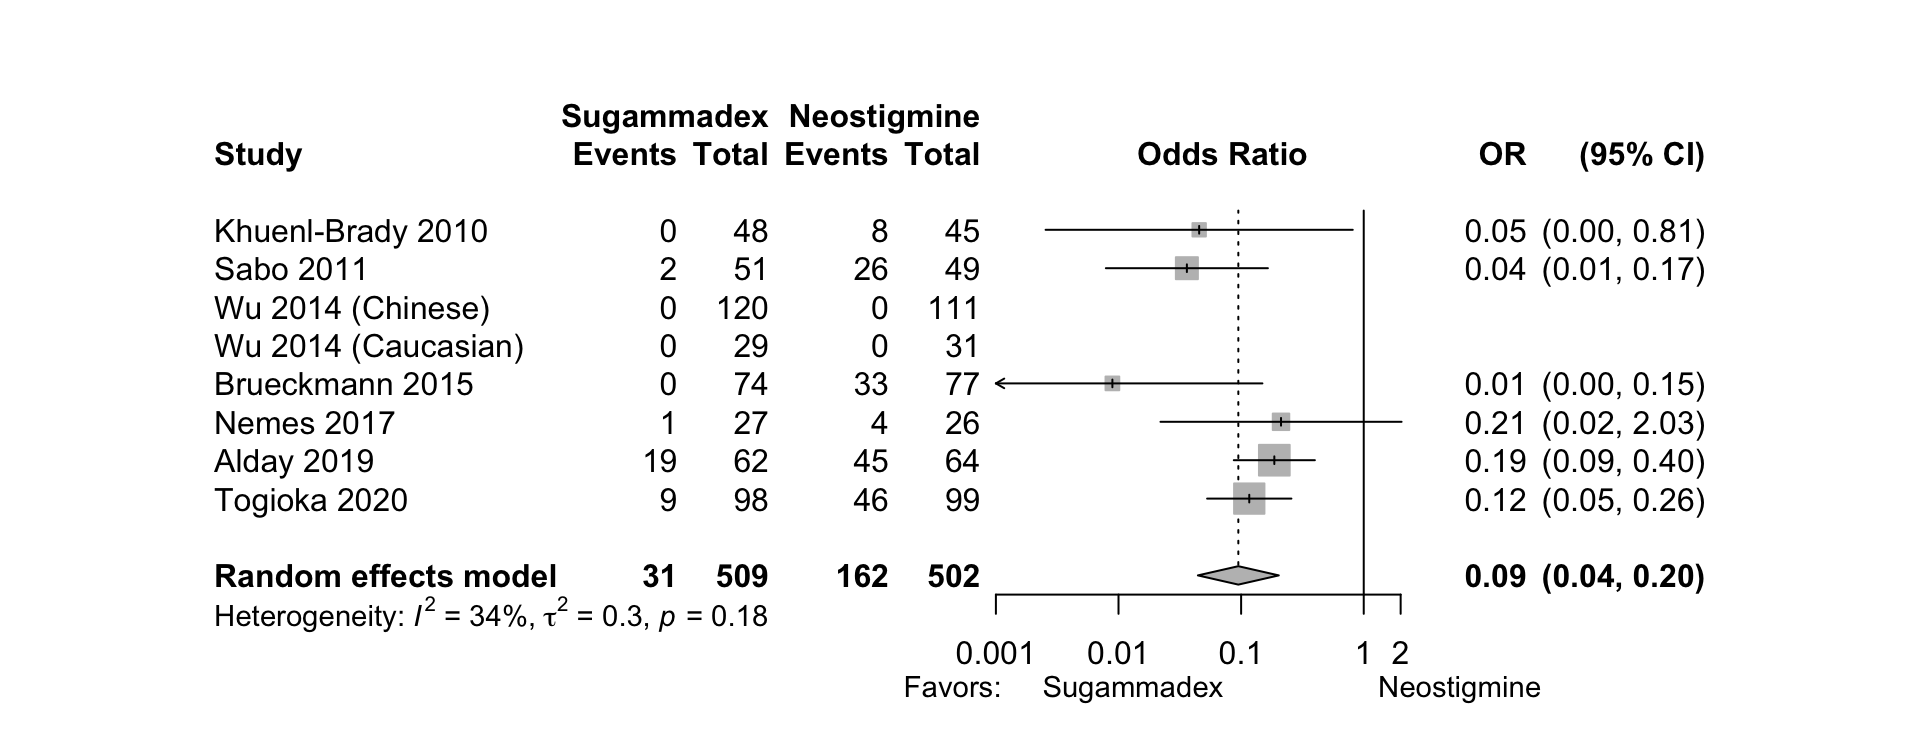
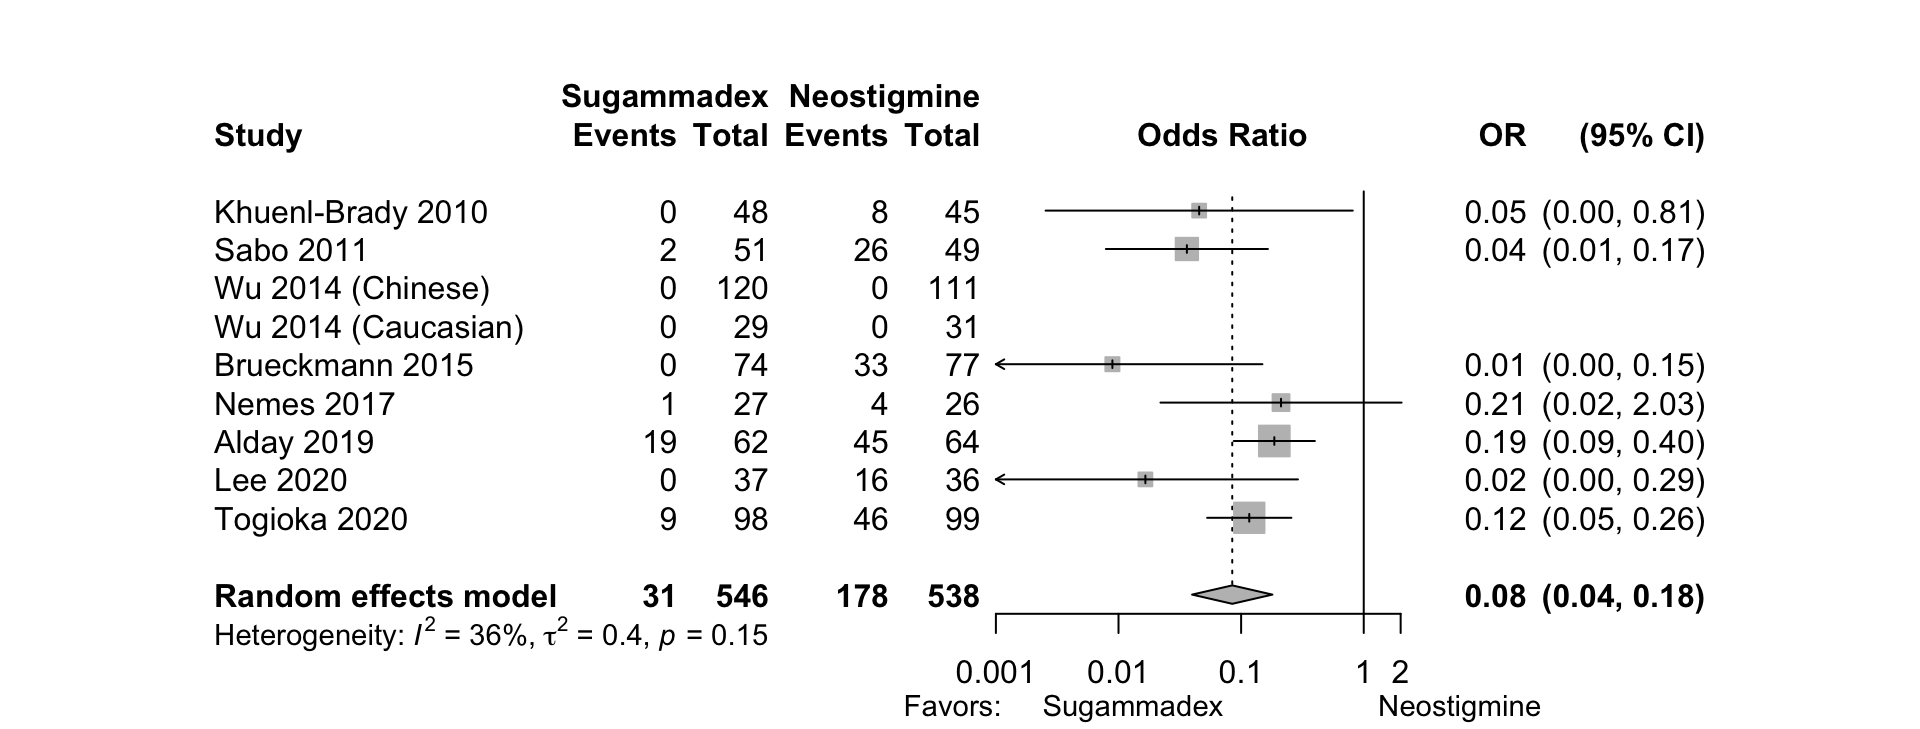
update reversal

diff --git a/docs/reversal.html b/docs/reversal.html
@@ -403,7 +403,7 @@ div.tocify {
 
 
 <h1 class="title toc-ignore">KQ4</h1>
-<h4 class="date">13 January, 2022 (09:15)</h4>
+<h4 class="date">13 January, 2022 (11:08)</h4>
 
 </div>
 
@@ -519,16 +519,16 @@ This reproducible <a href="https://rmarkdown.rstudio.com">R Markdown</a> analysi
 <div class="panel panel-default">
 <div class="panel-heading">
 <p class="panel-title">
-<a data-toggle="collapse" data-parent="#workflowr-checks" href="#strongRepositoryversionstrongahrefhttpsgithubcommdgrantNMBtree8a8b14e1a45537356708584e4ae0af00bb79b20etargetblank8a8b14ea"> <span class="glyphicon glyphicon-ok text-success" aria-hidden="true"></span> <strong>Repository version:</strong> <a href="https://github.com/mdgrant/NMB/tree/8a8b14e1a45537356708584e4ae0af00bb79b20e" target="_blank">8a8b14e</a> </a>
+<a data-toggle="collapse" data-parent="#workflowr-checks" href="#strongRepositoryversionstrongahrefhttpsgithubcommdgrantNMBtree3cc5d86b18cbd96ca0b3a3d39d277484a9dc21c6targetblank3cc5d86a"> <span class="glyphicon glyphicon-ok text-success" aria-hidden="true"></span> <strong>Repository version:</strong> <a href="https://github.com/mdgrant/NMB/tree/3cc5d86b18cbd96ca0b3a3d39d277484a9dc21c6" target="_blank">3cc5d86</a> </a>
 </p>
 </div>
[2 lines of base64/hex data omitted]
 <div class="panel-body">
 <p>
 Great! You are using Git for version control. Tracking code development and connecting the code version to the results is critical for reproducibility.
 </p>
 <p>
-The results in this page were generated with repository version <a href="https://github.com/mdgrant/NMB/tree/8a8b14e1a45537356708584e4ae0af00bb79b20e" target="_blank">8a8b14e</a>. See the <em>Past versions</em> tab to see a history of the changes made to the R Markdown and HTML files.
+The results in this page were generated with repository version <a href="https://github.com/mdgrant/NMB/tree/3cc5d86b18cbd96ca0b3a3d39d277484a9dc21c6" target="_blank">3cc5d86</a>. See the <em>Past versions</em> tab to see a history of the changes made to the R Markdown and HTML files.
 </p>
 <p>
 Note that you need to be careful to ensure that all relevant files for the analysis have been committed to Git prior to generating the results (you can use <code>wflow_publish</code> or <code>wflow_git_commit</code>). workflowr only checks the R Markdown file, but you know if there are other scripts or data files that it depends on. Below is the status of the Git repository when the results were generated:
@@ -601,6 +601,23 @@ Message
 </tr>
 </thead>
 <tbody>
+<tr>
+<td>
+html
+</td>
+<td>
+<a href="https://rawcdn.githack.com/mdgrant/NMB/0950c5838938503bdbd2608a2123c49fcc6cd89c/docs/reversal.html" target="_blank">0950c58</a>
+</td>
+<td>
+Mark Grant
+</td>
+<td>
+2022-01-13
+</td>
+<td>
+reversal updates
+</td>
+</tr>
 <tr>
 <td>
 html
@@ -4385,8 +4402,8 @@ Various
 <div id="outcomes" class="section level1">
 <h1><strong>Outcomes</strong></h1>
 <p><br/></p>
-<div id="residual-neuromusclar-block-tofrclinical" class="section level2">
-<h2><em>Residual Neuromusclar Block (TOFR/Clinical)</em></h2>
+<div id="residual-neuromuscular-block-tofrclinical" class="section level2">
+<h2><em>Residual Neuromuscular Block (TOFR/Clinical)</em></h2>
 <p><br/></p>
 <div id="adult" class="section level3">
 <h3><u>Adult</u></h3>
@@ -7636,7 +7653,7 @@ Mark Grant
 </table>
 </div>
 </div>
-<p><br/><br/></p>
+<p><br/></p>
 </div>
 <div id="pediatric" class="section level3">
 <h3><u>Pediatric</u></h3>
@@ -8135,6 +8152,13 @@ OR (95% CI)<sup>c</sup>
 </tfoot>
 </table>
 <p><br/></p>
+</div>
+</div>
+<div id="time-to-recovery" class="section level2">
+<h2><em>Time to Recovery</em></h2>
+<p><br/></p>
+<div id="adult-1" class="section level3">
+<h3><u>Adult</u></h3>
 </div>
 </div>
 </div>
